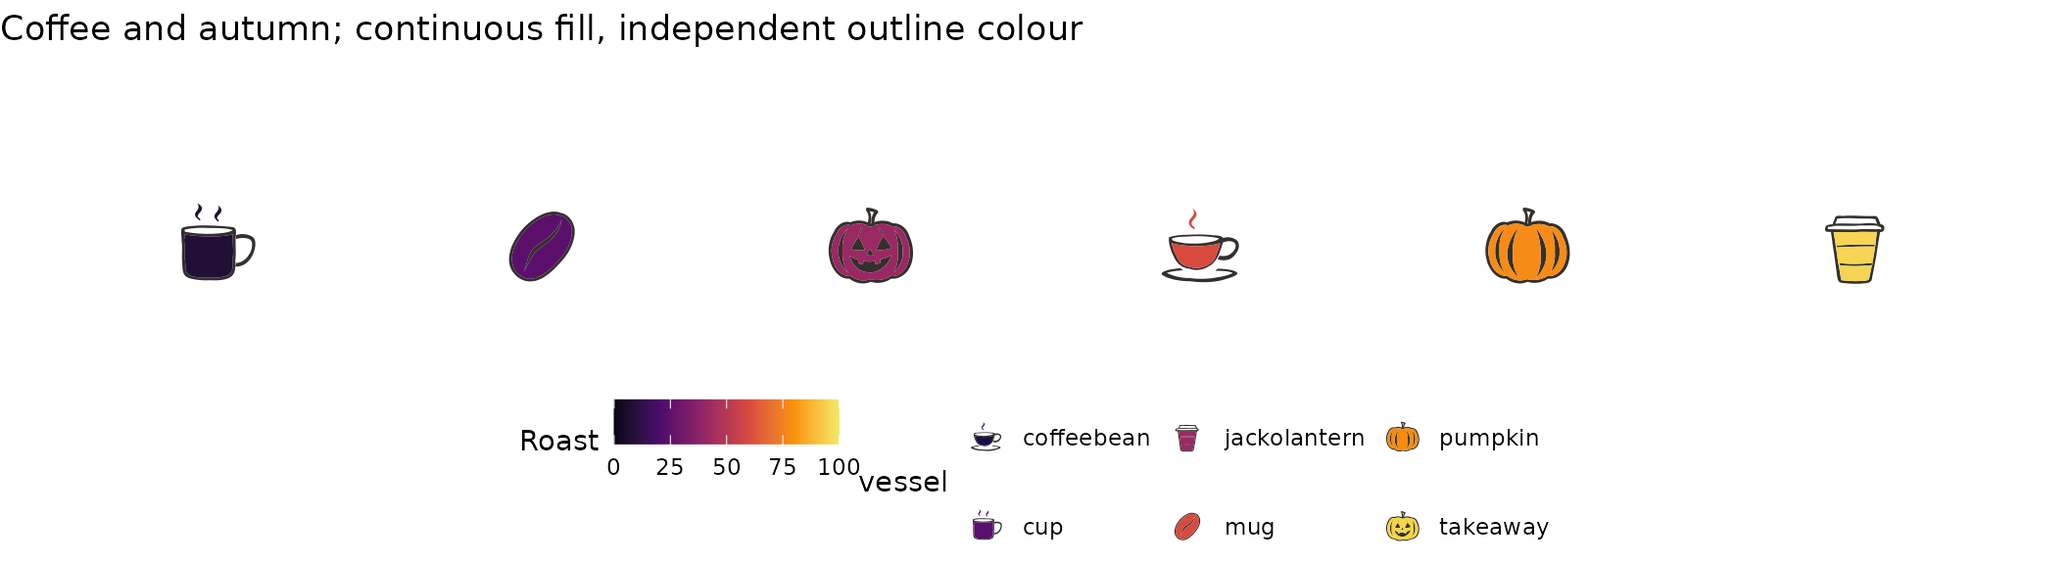
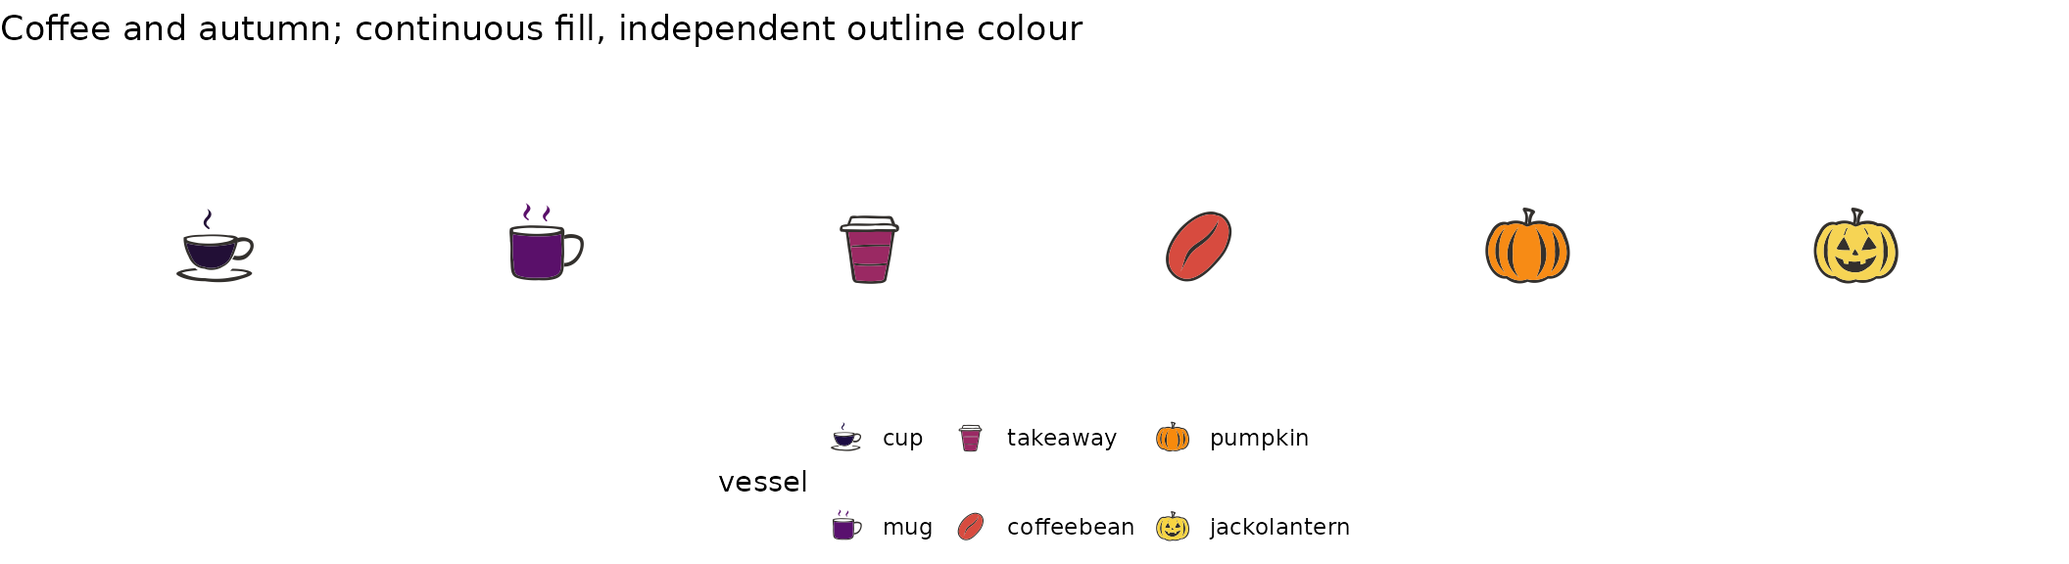
Deploying to gh-pages from @ cgoo4/ggfoundry@94d8876e5696bf7501620de08e96fc92ff62026e 🚀

diff --git a/articles/ggfoundry.html b/articles/ggfoundry.html
@@ -30,7 +30,7 @@
 
     <a class="navbar-brand me-2" href="../index.html">ggfoundry</a>
 
-    <small class="nav-text text-muted me-auto" data-bs-toggle="tooltip" data-bs-placement="bottom" title="">0.3.1.9000</small>
+    <small class="nav-text text-muted me-auto" data-bs-toggle="tooltip" data-bs-placement="bottom" title="">0.4.0</small>
 
 
     <button class="navbar-toggler" type="button" data-bs-toggle="collapse" data-bs-target="#navbar" aria-controls="navbar" aria-expanded="false" aria-label="Toggle navigation">
@@ -162,8 +162,8 @@ grouping shapes in the documentation and for use in
 <span></span>
 <span><span class="va">df</span> <span class="op">|&gt;</span> </span>
 <span>  <span class="fu"><a href="https://ggplot2.tidyverse.org/reference/ggplot.html" class="external-link">ggplot</a></span><span class="op">(</span><span class="fu"><a href="https://ggplot2.tidyverse.org/reference/aes.html" class="external-link">aes</a></span><span class="op">(</span><span class="va">x</span>, <span class="va">set</span><span class="op">)</span><span class="op">)</span> <span class="op">+</span></span>
-<span>  <span class="fu"><a href="https://ggplot2.tidyverse.org/reference/geom_text.html" class="external-link">geom_text</a></span><span class="op">(</span><span class="fu"><a href="https://ggplot2.tidyverse.org/reference/aes.html" class="external-link">aes</a></span><span class="op">(</span>label <span class="op">=</span> <span class="va">shape</span><span class="op">)</span>, nudge_y <span class="op">=</span> <span class="op">-</span><span class="fl">0.5</span>, colour <span class="op">=</span> <span class="st">"grey70"</span>, size <span class="op">=</span> <span class="fl">3</span><span class="op">)</span> <span class="op">+</span></span>
-<span>  <span class="fu"><a href="../reference/geom_casting.html">geom_casting</a></span><span class="op">(</span><span class="fu"><a href="https://ggplot2.tidyverse.org/reference/aes.html" class="external-link">aes</a></span><span class="op">(</span>shape <span class="op">=</span> <span class="va">shape</span><span class="op">)</span>, size <span class="op">=</span> <span class="fl">0.19</span>, fill <span class="op">=</span> <span class="st">"skyblue"</span><span class="op">)</span> <span class="op">+</span></span>
+<span>  <span class="fu"><a href="https://ggplot2.tidyverse.org/reference/geom_text.html" class="external-link">geom_text</a></span><span class="op">(</span><span class="fu"><a href="https://ggplot2.tidyverse.org/reference/aes.html" class="external-link">aes</a></span><span class="op">(</span>label <span class="op">=</span> <span class="va">shape</span><span class="op">)</span>, nudge_y <span class="op">=</span> <span class="op">-</span><span class="fl">0.5</span>, colour <span class="op">=</span> <span class="st">"grey40"</span>, size <span class="op">=</span> <span class="fl">3</span><span class="op">)</span> <span class="op">+</span></span>
+<span>  <span class="fu"><a href="../reference/geom_casting.html">geom_casting</a></span><span class="op">(</span><span class="fu"><a href="https://ggplot2.tidyverse.org/reference/aes.html" class="external-link">aes</a></span><span class="op">(</span>shape <span class="op">=</span> <span class="va">shape</span><span class="op">)</span>, size <span class="op">=</span> <span class="fl">0.11</span>, fill <span class="op">=</span> <span class="st">"skyblue"</span><span class="op">)</span> <span class="op">+</span></span>
 <span>  <span class="fu"><a href="https://ggplot2.tidyverse.org/reference/scale_manual.html" class="external-link">scale_shape_manual</a></span><span class="op">(</span>values <span class="op">=</span> <span class="fu"><a href="https://rdrr.io/r/base/character.html" class="external-link">as.character</a></span><span class="op">(</span><span class="va">df</span><span class="op">$</span><span class="va">shape</span><span class="op">)</span><span class="op">)</span> <span class="op">+</span></span>
 <span>  <span class="fu"><a href="https://ggplot2.tidyverse.org/reference/scale_continuous.html" class="external-link">scale_x_continuous</a></span><span class="op">(</span>expand <span class="op">=</span> <span class="fu"><a href="https://ggplot2.tidyverse.org/reference/expansion.html" class="external-link">expansion</a></span><span class="op">(</span>add <span class="op">=</span> <span class="fl">0.5</span><span class="op">)</span><span class="op">)</span> <span class="op">+</span></span>
 <span>  <span class="fu"><a href="https://ggplot2.tidyverse.org/reference/scale_discrete.html" class="external-link">scale_y_discrete</a></span><span class="op">(</span>expand <span class="op">=</span> <span class="fu"><a href="https://ggplot2.tidyverse.org/reference/expansion.html" class="external-link">expansion</a></span><span class="op">(</span>add <span class="op">=</span> <span class="fl">0.7</span><span class="op">)</span><span class="op">)</span> <span class="op">+</span></span>
@@ -300,7 +300,8 @@ ordinal temperature classification.</p>
 <span>  <span class="fu"><a href="https://ggplot2.tidyverse.org/reference/ggplot.html" class="external-link">ggplot</a></span><span class="op">(</span><span class="fu"><a href="https://ggplot2.tidyverse.org/reference/aes.html" class="external-link">aes</a></span><span class="op">(</span><span class="va">x</span>, <span class="fl">1</span>, fill <span class="op">=</span> <span class="va">roast</span>, shape <span class="op">=</span> <span class="va">vessel</span><span class="op">)</span><span class="op">)</span> <span class="op">+</span></span>
 <span>  <span class="fu"><a href="../reference/geom_casting.html">geom_casting</a></span><span class="op">(</span>colour <span class="op">=</span> <span class="st">"#33302D"</span>, size <span class="op">=</span> <span class="fl">0.34</span><span class="op">)</span> <span class="op">+</span></span>
 <span>  <span class="fu"><a href="https://ggplot2.tidyverse.org/reference/scale_manual.html" class="external-link">scale_shape_manual</a></span><span class="op">(</span></span>
-<span>    values <span class="op">=</span> <span class="fu"><a href="https://rdrr.io/r/base/c.html" class="external-link">c</a></span><span class="op">(</span><span class="st">"cup"</span>, <span class="st">"mug"</span>, <span class="st">"takeaway"</span>, <span class="st">"coffeebean"</span>, <span class="st">"pumpkin"</span>, <span class="st">"jackolantern"</span><span class="op">)</span>,</span>
+<span>    values <span class="op">=</span> <span class="fu"><a href="https://rdrr.io/r/stats/setNames.html" class="external-link">setNames</a></span><span class="op">(</span><span class="va">cafe</span><span class="op">$</span><span class="va">vessel</span>, <span class="va">cafe</span><span class="op">$</span><span class="va">vessel</span><span class="op">)</span>,</span>
+<span>    breaks <span class="op">=</span> <span class="va">cafe</span><span class="op">$</span><span class="va">vessel</span>,</span>
 <span>    guide <span class="op">=</span> <span class="fu"><a href="https://ggplot2.tidyverse.org/reference/guide_legend.html" class="external-link">guide_legend</a></span><span class="op">(</span></span>
 <span>      override.aes <span class="op">=</span> <span class="fu"><a href="https://rdrr.io/r/base/list.html" class="external-link">list</a></span><span class="op">(</span></span>
 <span>        fill <span class="op">=</span> <span class="fu"><a href="https://rdrr.io/r/base/c.html" class="external-link">c</a></span><span class="op">(</span><span class="st">"#1B0C42"</span>, <span class="st">"#59106E"</span>, <span class="st">"#9B2964"</span>, <span class="st">"#D74B3F"</span>, <span class="st">"#F88A0C"</span>, <span class="st">"#F7D441"</span><span class="op">)</span></span>
@@ -309,12 +310,12 @@ ordinal temperature classification.</p>
 <span>    <span class="op">)</span></span>
 <span>  <span class="op">)</span> <span class="op">+</span></span>
 <span>  <span class="fu"><a href="https://ggplot2.tidyverse.org/reference/scale_viridis.html" class="external-link">scale_fill_viridis_c</a></span><span class="op">(</span></span>
-<span>    limits <span class="op">=</span> <span class="fu"><a href="https://rdrr.io/r/base/c.html" class="external-link">c</a></span><span class="op">(</span><span class="fl">0</span>, <span class="fl">100</span><span class="op">)</span>, begin <span class="op">=</span> <span class="fl">0.04</span>, end <span class="op">=</span> <span class="fl">0.94</span>, option <span class="op">=</span> <span class="st">"inferno"</span></span>
+<span>    limits <span class="op">=</span> <span class="fu"><a href="https://rdrr.io/r/base/c.html" class="external-link">c</a></span><span class="op">(</span><span class="fl">0</span>, <span class="fl">100</span><span class="op">)</span>, begin <span class="op">=</span> <span class="fl">0.04</span>, end <span class="op">=</span> <span class="fl">0.94</span>, option <span class="op">=</span> <span class="st">"inferno"</span>,</span>
+<span>    guide <span class="op">=</span> <span class="st">"none"</span></span>
 <span>  <span class="op">)</span> <span class="op">+</span></span>
 <span>  <span class="fu"><a href="https://ggplot2.tidyverse.org/reference/scale_continuous.html" class="external-link">scale_x_continuous</a></span><span class="op">(</span>limits <span class="op">=</span> <span class="fu"><a href="https://rdrr.io/r/base/c.html" class="external-link">c</a></span><span class="op">(</span><span class="fl">0.35</span>, <span class="fl">6.65</span><span class="op">)</span>, expand <span class="op">=</span> <span class="fu"><a href="https://ggplot2.tidyverse.org/reference/expansion.html" class="external-link">expansion</a></span><span class="op">(</span>mult <span class="op">=</span> <span class="fl">0</span><span class="op">)</span><span class="op">)</span> <span class="op">+</span></span>
 <span>  <span class="fu"><a href="https://ggplot2.tidyverse.org/reference/scale_continuous.html" class="external-link">scale_y_continuous</a></span><span class="op">(</span>limits <span class="op">=</span> <span class="fu"><a href="https://rdrr.io/r/base/c.html" class="external-link">c</a></span><span class="op">(</span><span class="fl">0.55</span>, <span class="fl">1.65</span><span class="op">)</span>, expand <span class="op">=</span> <span class="fu"><a href="https://ggplot2.tidyverse.org/reference/expansion.html" class="external-link">expansion</a></span><span class="op">(</span>mult <span class="op">=</span> <span class="fl">0</span><span class="op">)</span><span class="op">)</span> <span class="op">+</span></span>
-<span>  <span class="fu"><a href="https://ggplot2.tidyverse.org/reference/labs.html" class="external-link">labs</a></span><span class="op">(</span>title <span class="op">=</span> <span class="st">"Coffee and autumn; continuous fill, independent outline colour"</span>,</span>
-<span>       fill <span class="op">=</span> <span class="st">"Roast"</span><span class="op">)</span> <span class="op">+</span></span>
+<span>  <span class="fu"><a href="https://ggplot2.tidyverse.org/reference/labs.html" class="external-link">labs</a></span><span class="op">(</span>title <span class="op">=</span> <span class="st">"Coffee and autumn; continuous fill, independent outline colour"</span><span class="op">)</span> <span class="op">+</span></span>
 <span>  <span class="fu"><a href="https://ggplot2.tidyverse.org/reference/ggtheme.html" class="external-link">theme_void</a></span><span class="op">(</span><span class="op">)</span> <span class="op">+</span></span>
 <span>  <span class="fu"><a href="https://ggplot2.tidyverse.org/reference/theme.html" class="external-link">theme</a></span><span class="op">(</span>legend.position <span class="op">=</span> <span class="st">"bottom"</span><span class="op">)</span></span></code></pre></div>
 <p><img src="ggfoundry_files/figure-html/coffee-autumn-1.png" class="r-plt" alt="" width="100%"></p>

diff --git a/news/index.html b/news/index.html
@@ -7,7 +7,7 @@
 
     <a class="navbar-brand me-2" href="../index.html">ggfoundry</a>
 
-    <small class="nav-text text-muted me-auto" data-bs-toggle="tooltip" data-bs-placement="bottom" title="">0.3.1.9000</small>
+    <small class="nav-text text-muted me-auto" data-bs-toggle="tooltip" data-bs-placement="bottom" title="">0.4.0</small>
 
 
     <button class="navbar-toggler" type="button" data-bs-toggle="collapse" data-bs-target="#navbar" aria-controls="navbar" aria-expanded="false" aria-label="Toggle navigation">
@@ -51,23 +51,23 @@
     </div>
 
     <div class="section level2">
-<h2 class="pkg-version" data-toc-text="development version" id="ggfoundry-development-version">ggfoundry (development version)<a class="anchor" aria-label="anchor" href="#ggfoundry-development-version"></a></h2>
+<h2 class="pkg-version" data-toc-text="0.4.0" id="ggfoundry-040">ggfoundry 0.4.0<a class="anchor" aria-label="anchor" href="#ggfoundry-040"></a></h2>
 <div class="section level3">
-<h3 id="new-shapes-development-version">New shapes<a class="anchor" aria-label="anchor" href="#new-shapes-development-version"></a></h3>
+<h3 id="new-shapes-0-4-0">New shapes<a class="anchor" aria-label="anchor" href="#new-shapes-0-4-0"></a></h3>
 <ul><li>6 shapes added, motivated by <a href="https://ico.org/international-coffee-day/" class="external-link">International Coffee Day</a>: <code>cup</code>, <code>mug</code> &amp; <code>takeaway</code> to the “container” set; <code>coffeebean</code>, <code>pumpkin</code> &amp; <code>jackolantern</code> to a new “food” set. <code>cup</code> &amp; <code>mug</code> steam shares the <code>fill</code>; a transparent <code>fill</code> hides the steam while retaining the outline. These are different vessels, not an ordinal scale.</li>
 <li>3 shapes (“bowl0”, “bowl1” &amp; “bowl2”) added to a “container” set, then redrawn with a wobblier rim, a more irregular mound of porridge and uneven line weight; shape names and aesthetics are unchanged. Bowl body &amp; steam share the <code>fill</code>; bowl &amp; porridge outline use the <code>colour</code>; a transparent <code>fill</code> hides the steam while retaining the outline.</li>
 </ul></div>
 <div class="section level3">
-<h3 id="performance-development-version">Performance<a class="anchor" aria-label="anchor" href="#performance-development-version"></a></h3>
+<h3 id="performance-0-4-0">Performance<a class="anchor" aria-label="anchor" href="#performance-0-4-0"></a></h3>
 <ul><li>Repeated shapes with the same appearance reuse a styled template rather than rebuilding the artwork, substantially reducing grob construction time and memory for dense layers.</li>
 </ul></div>
 <div class="section level3">
-<h3 id="improvements-development-version">Improvements<a class="anchor" aria-label="anchor" href="#improvements-development-version"></a></h3>
+<h3 id="improvements-0-4-0">Improvements<a class="anchor" aria-label="anchor" href="#improvements-0-4-0"></a></h3>
 <ul><li>
 <code><a href="../reference/display_palette.html">display_palette()</a></code> accepts repeated colours, maps each swatch to the intended colour, and gives a clear error for an empty palette.</li>
 </ul></div>
 <div class="section level3">
-<h3 id="bug-fixes-development-version">Bug fixes<a class="anchor" aria-label="anchor" href="#bug-fixes-development-version"></a></h3>
+<h3 id="bug-fixes-0-4-0">Bug fixes<a class="anchor" aria-label="anchor" href="#bug-fixes-0-4-0"></a></h3>
 <ul><li>Aesthetics varying per observation, e.g. a continuous <code>fill</code>, are now respected for every shape, without requiring a <code>group = id</code> workaround, including when a shared group is explicit.</li>
 <li>A <code>fill</code> of <code>NA</code> now renders the outline only, instead of dropping the shape with a warning.</li>
 <li>Repeated shapes sharing an identical appearance now each render, after a template-reuse regression collapsed duplicates to a single drawn shape.</li>

diff --git a/index.html b/index.html
@@ -28,7 +28,7 @@
 
     <a class="navbar-brand me-2" href="index.html">ggfoundry</a>
 
-    <small class="nav-text text-muted me-auto" data-bs-toggle="tooltip" data-bs-placement="bottom" title="">0.3.1.9000</small>
+    <small class="nav-text text-muted me-auto" data-bs-toggle="tooltip" data-bs-placement="bottom" title="">0.4.0</small>
 
 
     <button class="navbar-toggler" type="button" data-bs-toggle="collapse" data-bs-target="#navbar" aria-controls="navbar" aria-expanded="false" aria-label="Toggle navigation">
@@ -106,10 +106,12 @@
 </h2>
 <p>See the <a href="https://cgoo4.github.io/ggfoundry/articles/ggfoundry.html">get started</a> vignette and supporting package-website articles for more details, including available shapes, a showcase of examples and how ggfoundry contrasts with alternative strategies.</p>
 <p>How much work buys a cappuccino? The Cappuccino Index relates a small cappuccino’s price to a barista’s reported hourly wage. Here, the ten countries with the largest café samples in the data are ordered by the minutes of wages needed to buy a cup. The cup shape is fixed, while its fill varies continuously with the index.</p>
+<p>The data snapshot lives in the repository at <code>data-raw/cappuccino/cappuccino_index.csv</code>; readers elsewhere can <a href="https://raw.githubusercontent.com/rfordatascience/tidytuesday/main/data/2026/2026-09-08/cappuccino_index.csv" class="external-link">download the CSV</a> from TidyTuesday and point <code><a href="https://rdrr.io/r/utils/read.table.html" class="external-link">read.csv()</a></code> at it instead.</p>
 <div class="sourceCode" id="cb3"><pre class="downlit sourceCode r">
 <code class="sourceCode R"><span><span class="kw"><a href="https://rdrr.io/r/base/library.html" class="external-link">library</a></span><span class="op">(</span><span class="va"><a href="https://github.com/cgoo4/ggfoundry" class="external-link">ggfoundry</a></span><span class="op">)</span></span>
 <span><span class="co">#&gt; Loading required package: ggplot2</span></span>
 <span></span>
+<span><span class="co"># Repository snapshot; readers elsewhere may use the TidyTuesday URL above</span></span>
 <span><span class="va">coffee</span> <span class="op">&lt;-</span> <span class="fu"><a href="https://rdrr.io/r/utils/read.table.html" class="external-link">read.csv</a></span><span class="op">(</span><span class="st">"data-raw/cappuccino/cappuccino_index.csv"</span>, fileEncoding <span class="op">=</span> <span class="st">"UTF-8"</span><span class="op">)</span></span>
 <span><span class="va">coffee</span> <span class="op">&lt;-</span> <span class="fu"><a href="https://rdrr.io/r/utils/head.html" class="external-link">head</a></span><span class="op">(</span><span class="va">coffee</span><span class="op">[</span><span class="fu"><a href="https://rdrr.io/r/base/order.html" class="external-link">order</a></span><span class="op">(</span><span class="op">-</span><span class="va">coffee</span><span class="op">$</span><span class="va">n</span><span class="op">)</span>, <span class="op">]</span>, <span class="fl">10</span><span class="op">)</span></span>
 <span><span class="va">coffee</span><span class="op">$</span><span class="va">country</span> <span class="op">&lt;-</span> <span class="fu"><a href="https://rdrr.io/r/stats/reorder.factor.html" class="external-link">reorder</a></span><span class="op">(</span><span class="va">coffee</span><span class="op">$</span><span class="va">country</span>, <span class="op">-</span><span class="va">coffee</span><span class="op">$</span><span class="va">index</span><span class="op">)</span></span>

diff --git a/articles/contrast.html b/articles/contrast.html
@@ -25,7 +25,7 @@
 
     <a class="navbar-brand me-2" href="../index.html">ggfoundry</a>
 
-    <small class="nav-text text-muted me-auto" data-bs-toggle="tooltip" data-bs-placement="bottom" title="">0.3.1.9000</small>
+    <small class="nav-text text-muted me-auto" data-bs-toggle="tooltip" data-bs-placement="bottom" title="">0.4.0</small>
 
 
     <button class="navbar-toggler" type="button" data-bs-toggle="collapse" data-bs-target="#navbar" aria-controls="navbar" aria-expanded="false" aria-label="Toggle navigation">
@@ -296,7 +296,7 @@ differently-coloured outer-glow.</li>
 </h2>
 <p>Making your own grob with grid graphics is a further option. Then use
 <a href="https://github.com/aphalo/ggpp" class="external-link">ggpp</a> and
-<code><a href="https://rdrr.io/pkg/ggpp/man/geom_grob.html" class="external-link">geom_grob()</a></code> to add the appropriate layer. A circle is used
+<code><a href="https://docs.r4photobiology.info/ggpp/reference/geom_grob.html" class="external-link">geom_grob()</a></code> to add the appropriate layer. A circle is used
 here as a very basic example.</p>
 <div class="sourceCode" id="cb6"><pre class="downlit sourceCode r">
 <code class="sourceCode R"><span><span class="kw"><a href="https://rdrr.io/r/base/library.html" class="external-link">library</a></span><span class="op">(</span><span class="va"><a href="https://docs.r4photobiology.info/ggpp/" class="external-link">ggpp</a></span><span class="op">)</span></span>
@@ -335,7 +335,7 @@ here as a very basic example.</p>
 <span>    <span class="op">)</span></span>
 <span></span>
 <span><span class="va">p2</span> <span class="op">&lt;-</span> <span class="va">p</span> <span class="op">+</span></span>
-<span>  <span class="fu"><a href="https://rdrr.io/pkg/ggpp/man/geom_grob.html" class="external-link">geom_grob</a></span><span class="op">(</span><span class="fu"><a href="https://ggplot2.tidyverse.org/reference/aes.html" class="external-link">aes</a></span><span class="op">(</span><span class="va">x</span>, <span class="va">y</span>, label <span class="op">=</span> <span class="va">grob</span><span class="op">)</span><span class="op">)</span> <span class="op">+</span></span>
+<span>  <span class="fu"><a href="https://docs.r4photobiology.info/ggpp/reference/geom_grob.html" class="external-link">geom_grob</a></span><span class="op">(</span><span class="fu"><a href="https://ggplot2.tidyverse.org/reference/aes.html" class="external-link">aes</a></span><span class="op">(</span><span class="va">x</span>, <span class="va">y</span>, label <span class="op">=</span> <span class="va">grob</span><span class="op">)</span><span class="op">)</span> <span class="op">+</span></span>
 <span>  <span class="fu"><a href="https://ggplot2.tidyverse.org/reference/labs.html" class="external-link">labs</a></span><span class="op">(</span></span>
 <span>    title <span class="op">=</span> <span class="st">"Grob DIY"</span>,</span>
 <span>    subtitle <span class="op">=</span> <span class="st">"Lower-level graphics"</span></span>

diff --git a/reference/display_palette.html b/reference/display_palette.html
@@ -11,7 +11,7 @@ selected fillable shape."><meta property="og:image" content="https://cgoo4.githu
 
     <a class="navbar-brand me-2" href="../index.html">ggfoundry</a>
 
-    <small class="nav-text text-muted me-auto" data-bs-toggle="tooltip" data-bs-placement="bottom" title="">0.3.1.9000</small>
+    <small class="nav-text text-muted me-auto" data-bs-toggle="tooltip" data-bs-placement="bottom" title="">0.4.0</small>
 
 
     <button class="navbar-toggler" type="button" data-bs-toggle="collapse" data-bs-target="#navbar" aria-controls="navbar" aria-expanded="false" aria-label="Toggle navigation">

diff --git a/reference/geom_casting.html b/reference/geom_casting.html
@@ -15,7 +15,7 @@ picture grobs are shared with the template and left untouched."><meta property="
 
     <a class="navbar-brand me-2" href="../index.html">ggfoundry</a>
 
-    <small class="nav-text text-muted me-auto" data-bs-toggle="tooltip" data-bs-placement="bottom" title="">0.3.1.9000</small>
+    <small class="nav-text text-muted me-auto" data-bs-toggle="tooltip" data-bs-placement="bottom" title="">0.4.0</small>
 
 
     <button class="navbar-toggler" type="button" data-bs-toggle="collapse" data-bs-target="#navbar" aria-controls="navbar" aria-expanded="false" aria-label="Toggle navigation">

diff --git a/reference/shapes_cast.html b/reference/shapes_cast.html
@@ -11,7 +11,7 @@ filtered and used as a vector of strings in scale_shape_manual()."><meta propert
 
     <a class="navbar-brand me-2" href="../index.html">ggfoundry</a>
 
-    <small class="nav-text text-muted me-auto" data-bs-toggle="tooltip" data-bs-placement="bottom" title="">0.3.1.9000</small>
+    <small class="nav-text text-muted me-auto" data-bs-toggle="tooltip" data-bs-placement="bottom" title="">0.4.0</small>
 
 
     <button class="navbar-toggler" type="button" data-bs-toggle="collapse" data-bs-target="#navbar" aria-controls="navbar" aria-expanded="false" aria-label="Toggle navigation">

diff --git a/reference/ggfoundry-package.html b/reference/ggfoundry-package.html
@@ -9,7 +9,7 @@ A 'ggplot2' extension that supports arbitrary hand-crafted colourable &amp;amp; 
 
     <a class="navbar-brand me-2" href="../index.html">ggfoundry</a>
 
-    <small class="nav-text text-muted me-auto" data-bs-toggle="tooltip" data-bs-placement="bottom" title="">0.3.1.9000</small>
+    <small class="nav-text text-muted me-auto" data-bs-toggle="tooltip" data-bs-placement="bottom" title="">0.4.0</small>
 
 
     <button class="navbar-toggler" type="button" data-bs-toggle="collapse" data-bs-target="#navbar" aria-controls="navbar" aria-expanded="false" aria-label="Toggle navigation">

diff --git a/404.html b/404.html
@@ -26,7 +26,7 @@
 
     <a class="navbar-brand me-2" href="https://cgoo4.github.io/ggfoundry/index.html">ggfoundry</a>
 
-    <small class="nav-text text-muted me-auto" data-bs-toggle="tooltip" data-bs-placement="bottom" title="">0.3.1.9000</small>
+    <small class="nav-text text-muted me-auto" data-bs-toggle="tooltip" data-bs-placement="bottom" title="">0.4.0</small>
 
 
     <button class="navbar-toggler" type="button" data-bs-toggle="collapse" data-bs-target="#navbar" aria-controls="navbar" aria-expanded="false" aria-label="Toggle navigation">

diff --git a/articles/example_uses.html b/articles/example_uses.html
@@ -25,7 +25,7 @@
 
     <a class="navbar-brand me-2" href="../index.html">ggfoundry</a>
 
-    <small class="nav-text text-muted me-auto" data-bs-toggle="tooltip" data-bs-placement="bottom" title="">0.3.1.9000</small>
+    <small class="nav-text text-muted me-auto" data-bs-toggle="tooltip" data-bs-placement="bottom" title="">0.4.0</small>
 
 
     <button class="navbar-toggler" type="button" data-bs-toggle="collapse" data-bs-target="#navbar" aria-controls="navbar" aria-expanded="false" aria-label="Toggle navigation">

diff --git a/articles/index.html b/articles/index.html
@@ -7,7 +7,7 @@
 
     <a class="navbar-brand me-2" href="../index.html">ggfoundry</a>
 
-    <small class="nav-text text-muted me-auto" data-bs-toggle="tooltip" data-bs-placement="bottom" title="">0.3.1.9000</small>
+    <small class="nav-text text-muted me-auto" data-bs-toggle="tooltip" data-bs-placement="bottom" title="">0.4.0</small>
 
 
     <button class="navbar-toggler" type="button" data-bs-toggle="collapse" data-bs-target="#navbar" aria-controls="navbar" aria-expanded="false" aria-label="Toggle navigation">

diff --git a/reference/index.html b/reference/index.html
@@ -7,7 +7,7 @@
 
     <a class="navbar-brand me-2" href="../index.html">ggfoundry</a>
 
-    <small class="nav-text text-muted me-auto" data-bs-toggle="tooltip" data-bs-placement="bottom" title="">0.3.1.9000</small>
+    <small class="nav-text text-muted me-auto" data-bs-toggle="tooltip" data-bs-placement="bottom" title="">0.4.0</small>
 
 
     <button class="navbar-toggler" type="button" data-bs-toggle="collapse" data-bs-target="#navbar" aria-controls="navbar" aria-expanded="false" aria-label="Toggle navigation">
